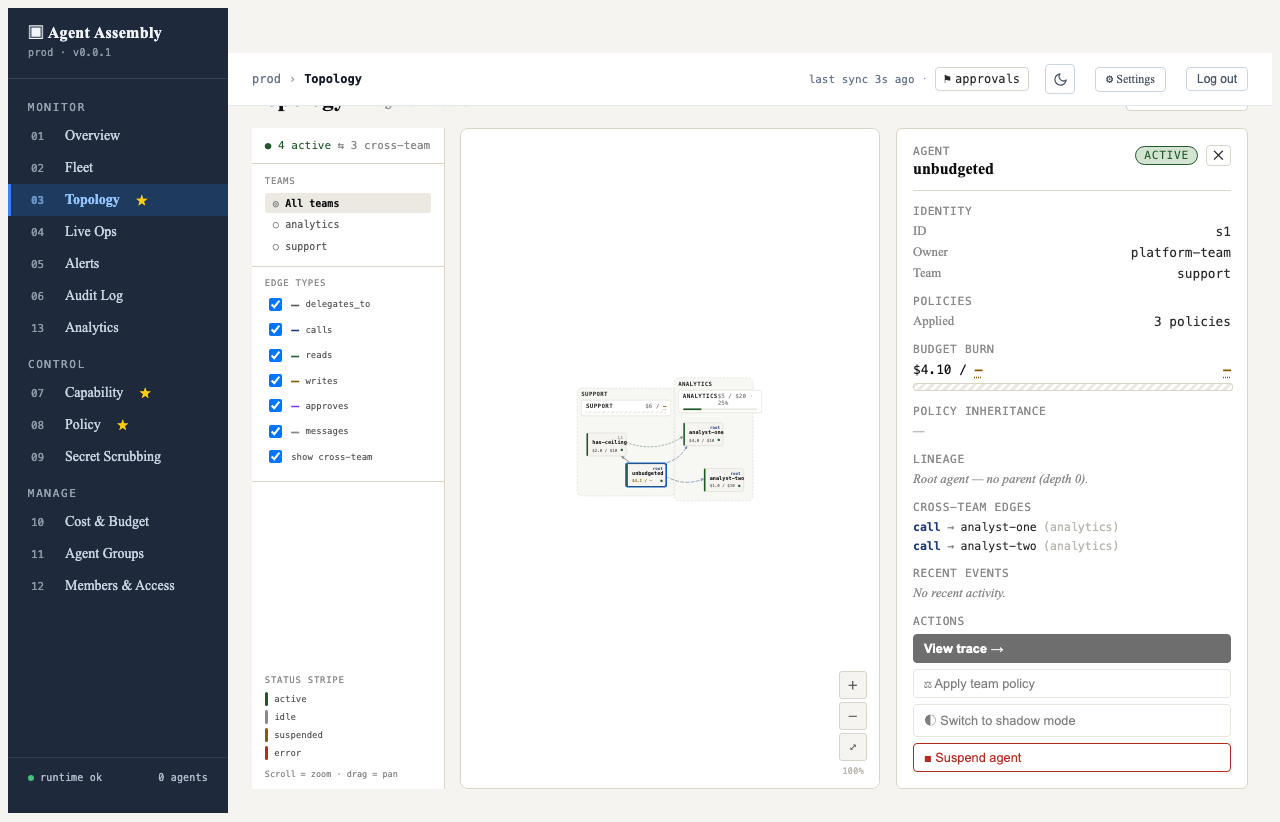
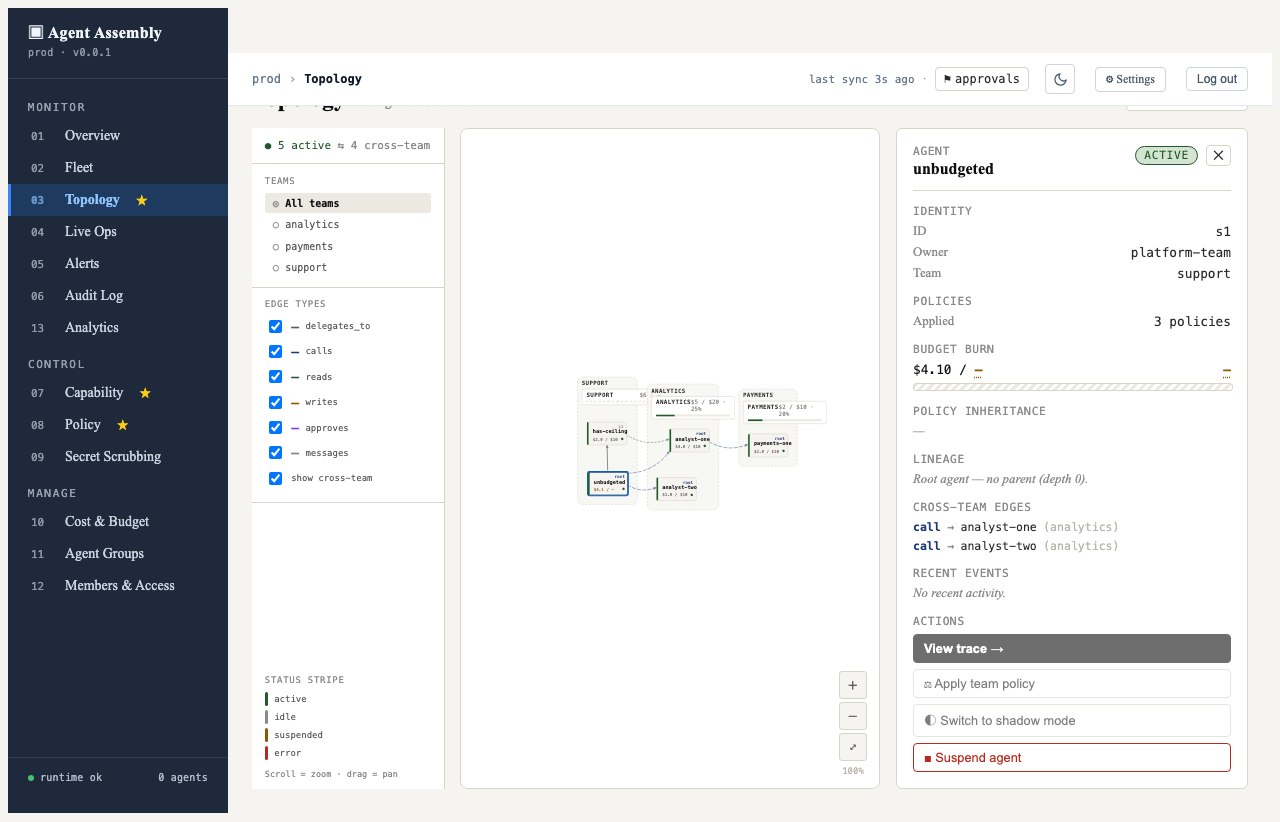
✅ (dashboard): Cover the ≥3-team and cross-team-toggle cases end-to-end
The e2e used the same 2-team fixture as the unit test it mirrored, so it was
equally incapable of failing. It now carries a third team reachable only from
`analytics`, so filtering to `support` leaves one crossing counted, undrawn, and
touching no visible node — the shape that disproves the badge-reconciliation
claim — and it exercises the `show cross-team` checkbox with no team filter at
all.

The polling fixture no longer serves a module constant. Byte-identical JSON lets
TanStack Query's structural sharing hand back the previous object, so the
re-render path a live fleet actually takes was never exercised and a
re-scattering graph would still have looked green. Spend now drifts on every
poll — by a sub-threshold amount, since a card grows with its burn ratio and a
resize would change `transform` for a legitimate reason and make the stability
assertion meaningless. The run asserts the cards hold position, that no card
resized, *and* that the figures advanced.

Refs AAASM-5135, AAASM-5136, AAASM-5138

Changed region(s): [[0.1875, 0.2737, 0.2812, 0.6083], [0.4375, 0.4562, 0.625, 0.6083], [0.4375, 0.4562, 0.4688, 0.4866]]

diff --git a/dashboard/tests/e2e/verify-aaasm-5135.spec.ts b/dashboard/tests/e2e/verify-aaasm-5135.spec.ts
@@ -77,17 +77,24 @@ const GRAPH = {
     agentNode('s2', 'has-ceiling', 'support', { spend_usd: 2, limit_usd: 10 }, 1),
     agentNode('a1', 'analyst-one', 'analytics', { spend_usd: 4, limit_usd: 10 }),
     agentNode('a2', 'analyst-two', 'analytics', { spend_usd: 1, limit_usd: 10 }, 1),
+    // A third team, reachable only from `analytics`. Filtering to `support`
+    // leaves this crossing counted, undrawn, and touching no visible node — the
+    // case a per-node badge structurally cannot represent.
+    agentNode('p1', 'payments-one', 'payments', { spend_usd: 2, limit_usd: 10 }),
   ],
   edges: [
     { source: 's1', target: 's2', kind: 'delegation', cross_team: false },
     { source: 's1', target: 'a1', kind: 'call', cross_team: true },
     { source: 's1', target: 'a2', kind: 'call', cross_team: true },
     { source: 's2', target: 'a1', kind: 'reads', cross_team: true },
+    { source: 'a1', target: 'p1', kind: 'call', cross_team: true },
   ],
 }
 
 /** Cross-team edges in the fixture; the sidebar must report exactly this. */
-const CROSS_TEAM_TOTAL = 3
+const CROSS_TEAM_TOTAL = 4
+/** Crossings that touch `support` — the three the badges can account for. */
+const SUPPORT_CROSSINGS = 3
 
 interface Harness {
   errors: string[]
@@ -95,7 +102,7 @@ interface Harness {
   graphRequests: () => number
 }
 
-async function bootstrap(page: Page, theme: Theme): Promise<Harness> {
+async function bootstrap(page: Page, theme: Theme, options: { drift?: boolean } = {}): Promise<Harness> {
   const errors: string[] = []
   page.on('console', (m) => {
     if (m.type() === 'error') errors.push(m.text())
@@ -127,11 +134,32 @@ async function bootstrap(page: Page, theme: Theme): Promise<Harness> {
     (u) => u.pathname.startsWith('/api/v1/topology/lineage/'),
     (r) => r.fulfill({ json: { ancestors: [] } }),
   )
+  // With `drift`, every poll returns *different* spend figures.
+  //
+  // That matters: serving byte-identical JSON lets TanStack Query's structural
+  // sharing hand back the previous object, so the re-render path a live fleet
+  // actually takes would never be exercised and a re-scattering graph would
+  // still look green. Only the polling test needs it — the assertions about
+  // specific budget figures want a stable payload.
   await page.route(
     (u) => u.pathname === '/api/v1/topology',
     (r) => {
       graphRequests += 1
-      return r.fulfill({ json: GRAPH })
+      if (options.drift !== true) return r.fulfill({ json: GRAPH })
+      // Small enough that no card crosses a size-bucket threshold: the card
+      // grows with burn ratio, so a larger nudge would legitimately change the
+      // `transform` (position minus half the new width) and the stability
+      // assertion would be measuring a resize rather than a re-scatter.
+      const nudge = graphRequests * 0.05
+      return r.fulfill({
+        json: {
+          ...GRAPH,
+          nodes: GRAPH.nodes.map((n) => ({
+            ...n,
+            budget: { ...n.budget, spend_usd: Number((n.budget.spend_usd + nudge).toFixed(2)) },
+          })),
+        },
+      })
     },
   )
 
@@ -252,41 +280,65 @@ test.describe('AAASM-5135 — Topology asserts only the budgets it was given', (
       const harness = await bootstrap(page, theme)
       await openTopology(page)
 
-      // Unfiltered: the sidebar's count and the canvas agree directly.
       const crossTeamStat = page.getByTestId('topology-stat-crossteam')
+      const hiddenStat = page.getByTestId('topology-stat-crossteam-hidden')
+      const drawnCrossings = page.locator('[data-testid="topology-edge"][data-cross-team="true"]')
+
+      // Unfiltered: the count and the canvas agree directly, so there is nothing
+      // to disclose.
       await expect(crossTeamStat).toContainText(`${CROSS_TEAM_TOTAL} cross-team`)
-      await expect(page.locator('[data-testid="topology-edge"][data-cross-team="true"]')).toHaveCount(
-        CROSS_TEAM_TOTAL,
-      )
+      await expect(drawnCrossings).toHaveCount(CROSS_TEAM_TOTAL)
+      await expect(hiddenStat).toHaveCount(0)
       await expect(page.getByTestId('topology-node-crossteam')).toHaveCount(0)
 
       await page.screenshot({ path: `${EVIDENCE_DIR}/topology-unfiltered-${theme}.png`, fullPage: true })
 
-      // Filter to `support`, whose two agents hold all three crossings.
+      // ── The ≥3-team break ────────────────────────────────────────────────
+      // Filter to `support`. Three crossings touch it; the fourth (analytics →
+      // payments) touches no visible node at all, so no badge can represent it.
+      // An earlier revision of this lane claimed badges reconciled the counter;
+      // this is the shape that disproves it.
       await page.locator('[data-testid="team-filter-item"][data-team="support"]').click()
       await expect(page.getByTestId('topology-node')).toHaveCount(2)
+      await expect(drawnCrossings).toHaveCount(0)
 
-      // The canvas can no longer draw any crossing — each has a hidden endpoint.
-      await expect(page.locator('[data-testid="topology-edge"][data-cross-team="true"]')).toHaveCount(0)
-      // The counter still reports all three, and all three are still on screen
-      // as badges. This is the agreement the ticket is about.
+      // The fleet-wide count is not narrowed to match the picture...
       await expect(crossTeamStat).toContainText(`${CROSS_TEAM_TOTAL} cross-team`)
+      // ...the gap is stated instead, and it covers all four — including the one
+      // the badges cannot reach.
+      await expect(hiddenStat).toHaveAttribute('data-hidden-count', String(CROSS_TEAM_TOTAL))
+      await expect(hiddenStat).toContainText(`${CROSS_TEAM_TOTAL} not shown`)
 
-      const badges = page.getByTestId('topology-node-crossteam')
-      await expect(badges).toHaveCount(2)
-      const badged = await badges.evaluateAll((els) =>
-        els.reduce((total, el) => total + Number(el.getAttribute('data-count')), 0),
-      )
-      expect(badged, 'every hidden crossing is accounted for by a badge').toBe(CROSS_TEAM_TOTAL)
-
-      // Before the fix this view showed no cross-team edges and no badges —
-      // indistinguishable from a team with no external dependencies at all.
+      // The badges keep their own narrower job: which *visible* agents have
+      // relationships the view is not drawing.
+      const badged = await page
+        .getByTestId('topology-node-crossteam')
+        .evaluateAll((els) => els.reduce((total, el) => total + Number(el.getAttribute('data-count')), 0))
+      expect(badged, 'badges cover only the filtered team’s own crossings').toBe(SUPPORT_CROSSINGS)
       await expect(nodeCard(page, 'unbudgeted').getByTestId('topology-node-crossteam')).toContainText('⇆2')
 
       await page.getByTestId('topology-graph-wrap').screenshot({
         path: `${EVIDENCE_DIR}/topology-filtered-crossteam-badges-${theme}.png`,
       })
       await page.screenshot({ path: `${EVIDENCE_DIR}/topology-filtered-${theme}.png`, fullPage: true })
+
+      // ── The `showCrossTeam` break ────────────────────────────────────────
+      // Back to the whole fleet, then uncheck the toggle sitting directly beside
+      // the counter. Every node is on screen and every curve is gone, so no
+      // badge renders at all — verbatim the defect this ticket set out to fix,
+      // reachable without any team filter.
+      await page.locator('[data-testid="team-filter-item"][data-team="all"]').click()
+      await expect(drawnCrossings).toHaveCount(CROSS_TEAM_TOTAL)
+      await page.getByTestId('topology-crossteam-toggle').locator('input').uncheck()
+
+      await expect(drawnCrossings).toHaveCount(0)
+      await expect(page.getByTestId('topology-node-crossteam')).toHaveCount(0)
+      await expect(crossTeamStat).toContainText(`${CROSS_TEAM_TOTAL} cross-team`)
+      await expect(hiddenStat).toHaveAttribute('data-hidden-count', String(CROSS_TEAM_TOTAL))
+
+      await page.getByTestId('topology-stats').screenshot({
+        path: `${EVIDENCE_DIR}/topology-crossteam-hidden-toggle-${theme}.png`,
+      })
 
       expect(harness.errors, 'no console errors or uncaught exceptions').toEqual([])
     })
@@ -306,6 +358,57 @@ test.describe('AAASM-5135 — Topology asserts only the budgets it was given', (
         timeout: 20_000,
       })
       .toBeGreaterThanOrEqual(3)
+
+    expect(harness.errors, 'no console errors or uncaught exceptions').toEqual([])
+  })
+
+  test('polling updates the figures without re-scattering the graph', async ({ page }) => {
+    // The route above serves a *different* payload each poll, so this exercises
+    // the path a live fleet actually takes. Re-simulating on every changed
+    // payload would move every card — and therefore every click target — under
+    // the operator every five seconds.
+    const harness = await bootstrap(page, 'light', { drift: true })
+    await openTopology(page)
+
+    const cards = page.getByTestId('topology-node')
+    await expect(cards).toHaveCount(GRAPH.nodes.length)
+
+    // Let the force layout settle before sampling, so the comparison is against
+    // a resting graph rather than one still finding its shape.
+    const positions = async () =>
+      cards.evaluateAll((els) => els.map((el) => el.getAttribute('transform')))
+    const buckets = async () =>
+      cards.evaluateAll((els) => els.map((el) => el.getAttribute('data-size-bucket')))
+    let previous = await positions()
+    await expect
+      .poll(async () => {
+        const current = await positions()
+        const stable = JSON.stringify(current) === JSON.stringify(previous)
+        previous = current
+        return stable
+      }, { message: 'force layout settles', timeout: 15_000 })
+      .toBe(true)
+
+    const settled = await positions()
+    const budgetText = async () =>
+      page.getByTestId('topology-node-budget').evaluateAll((els) => els.map((el) => el.textContent ?? ''))
+    const budgetsBefore = await budgetText()
+    const bucketsBefore = await buckets()
+    const requestsBefore = harness.graphRequests()
+
+    // Span at least two polls.
+    await expect
+      .poll(() => harness.graphRequests(), { timeout: 20_000 })
+      .toBeGreaterThanOrEqual(requestsBefore + 2)
+
+    // Guard the guard: if a card had resized, `transform` would change for a
+    // legitimate reason and this assertion would be meaningless.
+    expect(await buckets(), 'no card resized during the run').toEqual(bucketsBefore)
+    expect(await positions(), 'cards do not move when only the figures change').toEqual(settled)
+
+    // And the figures really did move — "stop re-scattering" must not have
+    // become "stop updating".
+    expect(await budgetText(), 'spend figures advanced').not.toEqual(budgetsBefore)
 
     expect(harness.errors, 'no console errors or uncaught exceptions').toEqual([])
   })
